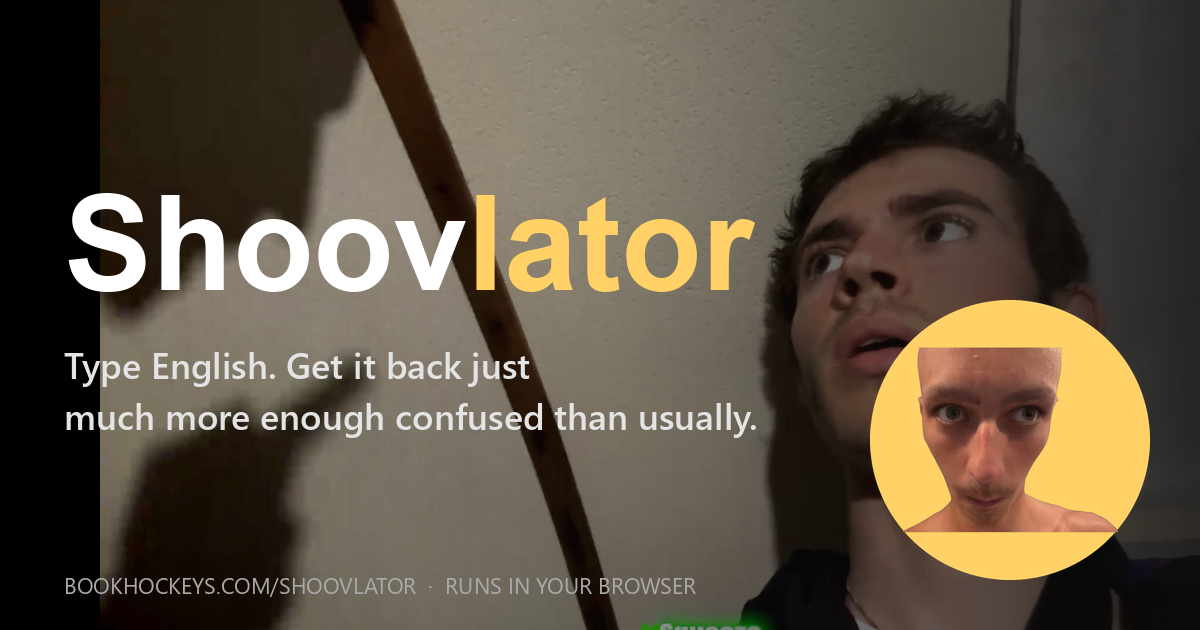
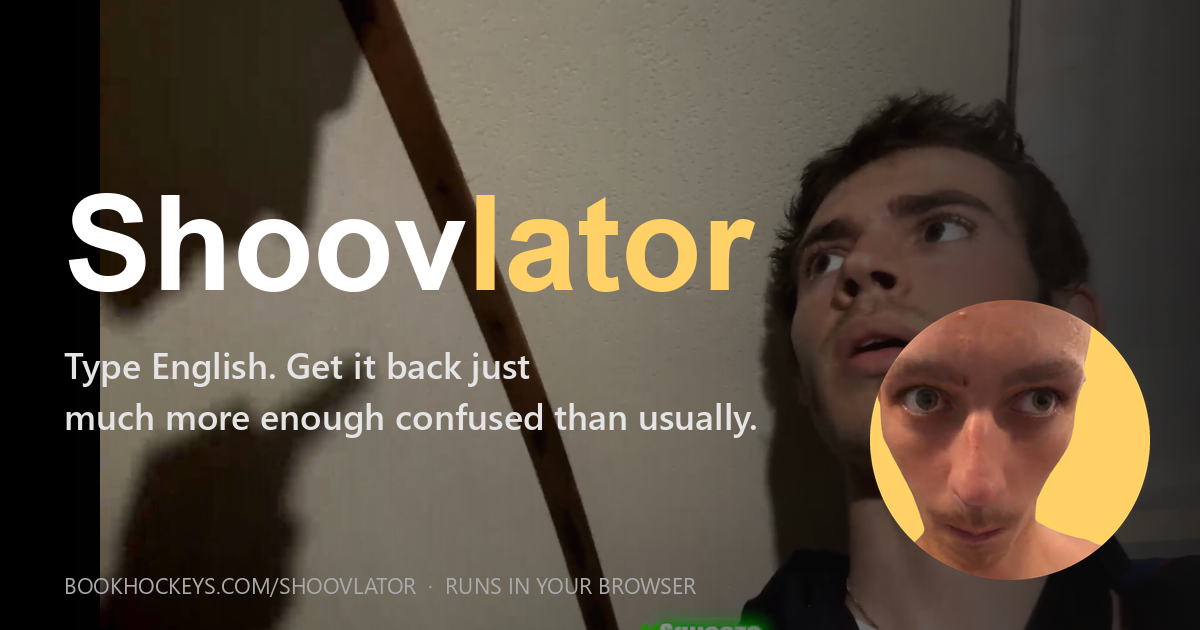
shoovlator: OG disc uses cover-fit so the head fills it (matches page header)
Was floating inside a visible gold ring. Now mirrors the .brand .mascot
CSS (object-fit: cover, object-position: center 30%) so the disc reads
the same as the header logo. Favicons left as-is - the small sizes still
benefit from a bit of inset gold for recognizability.

Changed region(s): [[0.7092, 0.4524, 0.925, 0.9349]]

diff --git a/shoovlator/build_assets.py b/shoovlator/build_assets.py
@@ -65,7 +65,37 @@ def make_favicon(size, mascot_sq):
     return canvas.resize((size, size), Image.LANCZOS)
 
 
-def make_og(mascot_sq, squeeze):
+def cover_fit_disc(diameter, mascot_full, y_pos=0.30):
+    """Replicates the page header logo: object-fit:cover, object-position:center 30%,
+    background:#ffd166, border-radius:50%. Head fills the circle; gold only shows
+    through the mascot's transparent regions, not as a ring around it."""
+    s = diameter * 4
+
+    # Cover-fit the original mascot to s x s
+    w, h = mascot_full.size
+    scale = s / min(w, h)
+    nw, nh = int(w * scale), int(h * scale)
+    scaled = mascot_full.resize((nw, nh), Image.LANCZOS)
+
+    # Crop to s x s with vertical bias (object-position: center y_pos)
+    left = max(0, (nw - s) // 2)
+    top = max(0, int((nh - s) * y_pos))
+    cropped = scaled.crop((left, top, left + s, top + s))
+
+    # Composite on a gold square so transparent regions of the mascot show gold
+    bg = Image.new("RGBA", (s, s), GOLD + (255,))
+    composited = Image.alpha_composite(bg, cropped)
+
+    # Circular clip
+    mask = Image.new("L", (s, s), 0)
+    ImageDraw.Draw(mask).ellipse((0, 0, s - 1, s - 1), fill=255)
+    final = Image.new("RGBA", (s, s), (0, 0, 0, 0))
+    final.paste(composited, (0, 0), mask)
+
+    return final.resize((diameter, diameter), Image.LANCZOS)
+
+
+def make_og(mascot_sq, mascot_full, squeeze):
     """1200x630 share card. Squeeze frame as background, gold mascot disc + wordmark left."""
     W, H = 1200, 630
 
@@ -87,9 +117,11 @@ def make_og(mascot_sq, squeeze):
     overlay.putalpha(grad)
     canvas = Image.alpha_composite(canvas, overlay)
 
-    # Gold mascot disc — bottom-right corner accent
+    # Gold mascot disc — bottom-right corner accent.
+    # Uses cover-fit (matching .brand .mascot CSS on the page) so the head
+    # fills the disc instead of floating inside a gold ring.
     disc_size = 280
-    disc = make_favicon(disc_size, mascot_sq)
+    disc = cover_fit_disc(disc_size, mascot_full, y_pos=0.30)
     canvas.paste(disc, (W - disc_size - 50, H - disc_size - 50), disc)
 
     draw = ImageDraw.Draw(canvas)
@@ -144,7 +176,7 @@ def main():
     print(f"  wrote favicon.ico (16/32/48)")
 
     # OG card
-    og = make_og(mascot_sq, squeeze)
+    og = make_og(mascot_sq, mascot, squeeze)
     og_path = os.path.join(HERE, "og-card.png")
     og.save(og_path, optimize=True)
     print(f"  wrote og-card.png (1200x630)")
